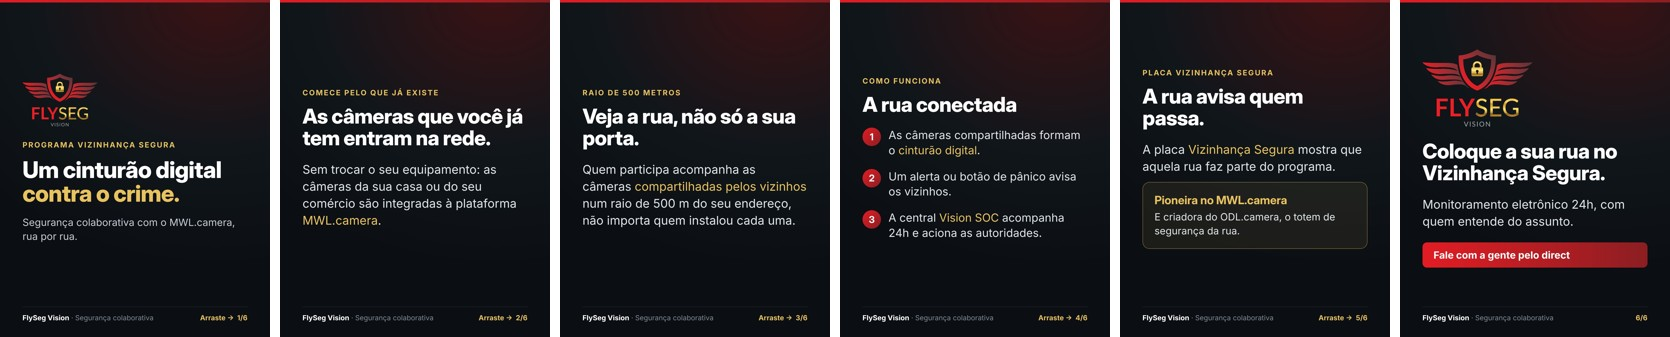
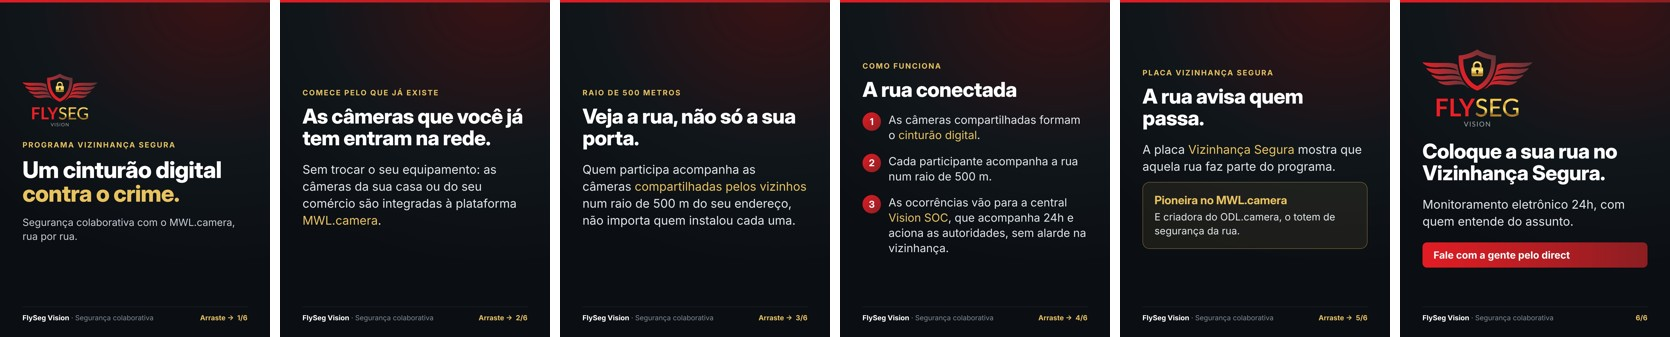
FlySeg: ODL refeito (conjunto completo), pânico fora dos posts
Claude-Session: https://claude.ai/code/session_013wqKux7qHbRAJMaH62mhbc

Changed region(s): [[0.4982, 0.178, 0.6539, 0.7715]]

diff --git a/social-flyseg/2026-11-odl-camera/slide5.html b/social-flyseg/2026-11-odl-camera/slide5.html
@@ -1,0 +1,26 @@
+<!doctype html><html><head><meta charset="utf-8"><style>
+*{margin:0;padding:0;box-sizing:border-box}
+body{width:1080px;height:1350px;background:radial-gradient(120% 80% at 80% 0%,#3a1214 0%,#11161b 55%,#0b0f13 100%);color:#fff;font-family:'Inter';position:relative;overflow:hidden}
+.bar{position:absolute;top:0;left:0;right:0;height:10px;background:linear-gradient(90deg,#e31c24,#8b1e22)}
+.wrap{position:absolute;inset:90px 90px 170px 90px;display:flex;flex-direction:column;justify-content:center}
+.eyebrow{font-weight:700;font-size:30px;letter-spacing:4px;text-transform:uppercase;color:#e9c260;margin-bottom:34px}
+h1{font-family:'Inter Display';font-weight:800;font-size:92px;line-height:1.04;letter-spacing:-1.5px}
+h2{font-family:'Inter Display';font-weight:800;font-size:82px;line-height:1.06;letter-spacing:-1.2px;margin-bottom:48px}
+.sub{font-size:40px;line-height:1.4;color:#c5ccd3;margin-top:40px}
+p.t{font-size:48px;line-height:1.42;color:#dfe4e9}
+.gold{color:#e9c260}.red{color:#ff3b42}
+ol{list-style:none;display:flex;flex-direction:column;gap:44px}
+ol li{display:flex;gap:30px;align-items:flex-start;font-size:45px;line-height:1.35;color:#dfe4e9}
+ol li b{flex:0 0 74px;height:74px;border-radius:50%;background:linear-gradient(135deg,#e31c24,#8b1e22);display:flex;align-items:center;justify-content:center;font-size:38px;color:#fff;font-family:'Inter Display'}
+.card{border:2px solid rgba(233,194,96,.45);background:rgba(233,194,96,.08);border-radius:28px;padding:42px 46px;margin-top:28px}
+.card h3{font-family:'Inter Display';font-size:46px;color:#e9c260;margin-bottom:12px}
+.card p{font-size:40px;line-height:1.4;color:#dfe4e9}
+.logo{width:300px;margin-bottom:56px}
+.logo.big{width:440px}
+.foot{position:absolute;left:90px;right:90px;bottom:60px;display:flex;justify-content:space-between;align-items:center;font-size:28px;color:#7f8a94;border-top:2px solid rgba(255,255,255,.08);padding-top:26px}
+.foot b{color:#fff}
+.foot .sw{color:#e9c260;font-weight:700}
+.cta{display:inline-block;margin-top:50px;padding:26px 44px;border-radius:18px;background:linear-gradient(90deg,#e31c24,#8b1e22);font-size:40px;font-weight:700}
+.center{justify-content:center}
+</style></head><body><div class="bar"></div>
+<div class="wrap"><div class="center" style="display:flex;flex-direction:column;height:100%"><img class="logo big" src="file:///home/claude/flyseg-posts/logo.png"><h2>Sem custo de equipamento.</h2><p class="t">Assinatura mensal com o conjunto completo instalado.</p><span class="cta">Fale com a gente pelo direct</span></div></div><div class="foot"><span><b>FlySeg Vision</b> · Segurança colaborativa</span><span class="sw">5/5</span></div></body></html>

diff --git a/social-flyseg/2026-11-seguranca-colaborativa/story.html b/social-flyseg/2026-11-seguranca-colaborativa/story.html
@@ -8,4 +8,4 @@ ol{list-style:none;display:flex;flex-direction:column}
 li{display:flex;align-items:flex-start;color:#dfe4e9;line-height:1.32}
 li b{border-radius:50%;background:linear-gradient(135deg,#e31c24,#8b1e22);display:flex;align-items:center;justify-content:center;color:#fff;font-family:'Inter Display';flex-shrink:0}
 .ft{position:absolute;display:flex;justify-content:space-between;align-items:center;color:#7f8a94;border-top:2px solid rgba(255,255,255,.08)}.ft b{color:#fff}.ft .g{color:#e9c260;font-weight:700}body{width:1080px;height:1920px}.w{left:90px;right:90px;top:250px;bottom:370px;justify-content:center}.logo{width:300px}.eb{font-size:32px}h1{font-size:96px}.s{font-size:44px}
-ol{gap:34px}li{gap:28px;font-size:44px}li b{width:76px;height:76px;font-size:38px}.cta{margin-top:56px;align-self:flex-start;padding:28px 46px;border-radius:20px;background:linear-gradient(90deg,#e31c24,#8b1e22);font-size:42px;font-weight:700}</style></head><body><div class="bar"></div><div class="w"><img class="logo" src="file:///home/claude/flyseg-posts/logo.png"><div class="eb">Programa Vizinhança Segura</div><h1>Um cinturão digital <span>contra o crime.</span></h1><p class="s">Segurança colaborativa com o MWL.camera.</p><ol><li><b>1</b><span>As câmeras que você já tem entram na rede</span></li><li><b>2</b><span>Veja as câmeras compartilhadas pelos vizinhos num raio de 500 m</span></li><li><b>3</b><span>Central Vision SOC 24h acionando as autoridades</span></li></ol><div class="cta">Fale com a gente pelo direct</div></div></body></html>
+ol{gap:34px}li{gap:28px;font-size:44px}li b{width:76px;height:76px;font-size:38px}.cta{margin-top:56px;align-self:flex-start;padding:28px 46px;border-radius:20px;background:linear-gradient(90deg,#e31c24,#8b1e22);font-size:42px;font-weight:700}</style></head><body><div class="bar"></div><div class="w"><img class="logo" src="file:///home/claude/flyseg-posts/logo.png"><div class="eb">Programa Vizinhança Segura</div><h1>Um cinturão digital <span>contra o crime.</span></h1><p class="s">Segurança colaborativa com o MWL.camera.</p><ol><li><b>1</b><span>As câmeras que você já tem entram na rede</span></li><li><b>2</b><span>Veja as câmeras compartilhadas pelos vizinhos num raio de 500 m</span></li><li><b>3</b><span>Ocorrências direto para a central Vision SOC 24h</span></li></ol><div class="cta">Fale com a gente pelo direct</div></div></body></html>

diff --git a/social-flyseg/2026-11-odl-camera/story.html b/social-flyseg/2026-11-odl-camera/story.html
@@ -8,4 +8,4 @@ ol{list-style:none;display:flex;flex-direction:column}
 li{display:flex;align-items:flex-start;color:#dfe4e9;line-height:1.32}
 li b{border-radius:50%;background:linear-gradient(135deg,#e31c24,#8b1e22);display:flex;align-items:center;justify-content:center;color:#fff;font-family:'Inter Display';flex-shrink:0}
 .ft{position:absolute;display:flex;justify-content:space-between;align-items:center;color:#7f8a94;border-top:2px solid rgba(255,255,255,.08)}.ft b{color:#fff}.ft .g{color:#e9c260;font-weight:700}body{width:1080px;height:1920px}.w{left:90px;right:90px;top:250px;bottom:370px;justify-content:center}.logo{width:300px}.eb{font-size:32px}h1{font-size:96px}.s{font-size:44px}
-ol{gap:34px}li{gap:28px;font-size:44px}li b{width:76px;height:76px;font-size:38px}.cta{margin-top:56px;align-self:flex-start;padding:28px 46px;border-radius:20px;background:linear-gradient(90deg,#e31c24,#8b1e22);font-size:42px;font-weight:700}</style></head><body><div class="bar"></div><div class="w"><img class="logo" src="file:///home/claude/flyseg-posts/logo.png"><div class="eb">ODL.camera</div><h1>ODL, de <span>Olho de Lince.</span></h1><p class="s">O totem de segurança da sua rua, criado pela FlySeg.</p><ol><li><b>1</b><span>Totem para a rua e versão fachada</span></li><li><b>2</b><span>Ligado ao MWL.camera, com botão de pânico</span></li><li><b>3</b><span>Aviso se câmera, gravador ou internet caírem</span></li></ol><div class="cta">Fale com a gente pelo direct</div></div></body></html>
+ol{gap:34px}li{gap:28px;font-size:44px}li b{width:76px;height:76px;font-size:38px}.cta{margin-top:56px;align-self:flex-start;padding:28px 46px;border-radius:20px;background:linear-gradient(90deg,#e31c24,#8b1e22);font-size:42px;font-weight:700}</style></head><body><div class="bar"></div><div class="w"><img class="logo" src="file:///home/claude/flyseg-posts/logo.png"><div class="eb">ODL.camera</div><h1>A segurança da rua <span>num conjunto completo.</span></h1><p class="s">Totem com visão 360° e versão fachada, criados pela FlySeg.</p><ol><li><b>1</b><span>Sirene e giroflex integrados</span></li><li><b>2</b><span>Câmeras Full HD coloridas à noite e 7 dias de gravação</span></li><li><b>3</b><span>Integrado ao MWL.camera e à central Vision SOC 24h</span></li></ol><div class="cta">Fale com a gente pelo direct</div></div></body></html>

diff --git a/social-flyseg/2026-11-seguranca-colaborativa/resumo.html b/social-flyseg/2026-11-seguranca-colaborativa/resumo.html
@@ -8,4 +8,4 @@ ol{list-style:none;display:flex;flex-direction:column}
 li{display:flex;align-items:flex-start;color:#dfe4e9;line-height:1.32}
 li b{border-radius:50%;background:linear-gradient(135deg,#e31c24,#8b1e22);display:flex;align-items:center;justify-content:center;color:#fff;font-family:'Inter Display';flex-shrink:0}
 .ft{position:absolute;display:flex;justify-content:space-between;align-items:center;color:#7f8a94;border-top:2px solid rgba(255,255,255,.08)}.ft b{color:#fff}.ft .g{color:#e9c260;font-weight:700}body{width:1080px;height:1350px}.w{left:90px;right:90px;top:90px;bottom:170px;justify-content:center}.eb{font-size:28px}h1{font-size:78px}.s{font-size:38px}
-ol{gap:28px}li{gap:26px;font-size:38px}li b{width:64px;height:64px;font-size:32px}.ft{left:90px;right:90px;bottom:60px;padding-top:24px;font-size:28px}</style></head><body><div class="bar"></div><div class="w"><img class="logo" src="file:///home/claude/flyseg-posts/logo.png"><div class="eb">Programa Vizinhança Segura</div><h1>Um cinturão digital <span>contra o crime.</span></h1><p class="s">Segurança colaborativa com o MWL.camera.</p><ol><li><b>1</b><span>As câmeras que você já tem entram na rede</span></li><li><b>2</b><span>Veja as câmeras compartilhadas pelos vizinhos num raio de 500 m</span></li><li><b>3</b><span>Central Vision SOC 24h acionando as autoridades</span></li></ol></div><div class="ft"><span><b>FlySeg Vision</b> · Segurança colaborativa</span><span class="g">flyseg.vision</span></div></body></html>
+ol{gap:28px}li{gap:26px;font-size:38px}li b{width:64px;height:64px;font-size:32px}.ft{left:90px;right:90px;bottom:60px;padding-top:24px;font-size:28px}</style></head><body><div class="bar"></div><div class="w"><img class="logo" src="file:///home/claude/flyseg-posts/logo.png"><div class="eb">Programa Vizinhança Segura</div><h1>Um cinturão digital <span>contra o crime.</span></h1><p class="s">Segurança colaborativa com o MWL.camera.</p><ol><li><b>1</b><span>As câmeras que você já tem entram na rede</span></li><li><b>2</b><span>Veja as câmeras compartilhadas pelos vizinhos num raio de 500 m</span></li><li><b>3</b><span>Ocorrências direto para a central Vision SOC 24h</span></li></ol></div><div class="ft"><span><b>FlySeg Vision</b> · Segurança colaborativa</span><span class="g">flyseg.vision</span></div></body></html>

diff --git a/social-flyseg/2026-11-odl-camera/resumo.html b/social-flyseg/2026-11-odl-camera/resumo.html
@@ -8,4 +8,4 @@ ol{list-style:none;display:flex;flex-direction:column}
 li{display:flex;align-items:flex-start;color:#dfe4e9;line-height:1.32}
 li b{border-radius:50%;background:linear-gradient(135deg,#e31c24,#8b1e22);display:flex;align-items:center;justify-content:center;color:#fff;font-family:'Inter Display';flex-shrink:0}
 .ft{position:absolute;display:flex;justify-content:space-between;align-items:center;color:#7f8a94;border-top:2px solid rgba(255,255,255,.08)}.ft b{color:#fff}.ft .g{color:#e9c260;font-weight:700}body{width:1080px;height:1350px}.w{left:90px;right:90px;top:90px;bottom:170px;justify-content:center}.eb{font-size:28px}h1{font-size:78px}.s{font-size:38px}
-ol{gap:28px}li{gap:26px;font-size:38px}li b{width:64px;height:64px;font-size:32px}.ft{left:90px;right:90px;bottom:60px;padding-top:24px;font-size:28px}</style></head><body><div class="bar"></div><div class="w"><img class="logo" src="file:///home/claude/flyseg-posts/logo.png"><div class="eb">ODL.camera</div><h1>ODL, de <span>Olho de Lince.</span></h1><p class="s">O totem de segurança da sua rua, criado pela FlySeg.</p><ol><li><b>1</b><span>Totem para a rua e versão fachada</span></li><li><b>2</b><span>Ligado ao MWL.camera, com botão de pânico</span></li><li><b>3</b><span>Aviso se câmera, gravador ou internet caírem</span></li></ol></div><div class="ft"><span><b>FlySeg Vision</b> · Segurança colaborativa</span><span class="g">flyseg.vision</span></div></body></html>
+ol{gap:28px}li{gap:26px;font-size:38px}li b{width:64px;height:64px;font-size:32px}.ft{left:90px;right:90px;bottom:60px;padding-top:24px;font-size:28px}</style></head><body><div class="bar"></div><div class="w"><img class="logo" src="file:///home/claude/flyseg-posts/logo.png"><div class="eb">ODL.camera</div><h1>A segurança da rua <span>num conjunto completo.</span></h1><p class="s">Totem com visão 360° e versão fachada, criados pela FlySeg.</p><ol><li><b>1</b><span>Sirene e giroflex integrados</span></li><li><b>2</b><span>Câmeras Full HD coloridas à noite e 7 dias de gravação</span></li><li><b>3</b><span>Integrado ao MWL.camera e à central Vision SOC 24h</span></li></ol></div><div class="ft"><span><b>FlySeg Vision</b> · Segurança colaborativa</span><span class="g">flyseg.vision</span></div></body></html>

diff --git a/social-flyseg/2026-11-odl-camera/slide3.html b/social-flyseg/2026-11-odl-camera/slide3.html
@@ -23,4 +23,4 @@ ol li b{flex:0 0 74px;height:74px;border-radius:50%;background:linear-gradient(1
 .cta{display:inline-block;margin-top:50px;padding:26px 44px;border-radius:18px;background:linear-gradient(90deg,#e31c24,#8b1e22);font-size:40px;font-weight:700}
 .center{justify-content:center}
 </style></head><body><div class="bar"></div>
-<div class="wrap"><div class="eyebrow">Na prática</div><h2>Tudo no MWL.camera</h2><ol><li><b>1</b><span>Imagens da rua na plataforma de segurança colaborativa.</span></li><li><b>2</b><span>Botão de pânico e alertas para os vizinhos.</span></li><li><b>3</b><span>Aviso se a câmera, o gravador ou a internet ficarem fora do ar.</span></li><li><b>4</b><span>Central Vision SOC 24h acionando as autoridades.</span></li></ol></div><div class="foot"><span><b>FlySeg Vision</b> · Segurança colaborativa</span><span class="sw">Arraste →&nbsp;&nbsp;3/4</span></div></body></html>
+<div class="wrap"><div class="eyebrow">Sempre no conjunto</div><h2>Feito para inibir.</h2><ol><li><b>1</b><span><span class="gold">Sirene e giroflex</span> integrados.</span></li><li><b>2</b><span>Câmeras <span class="gold">Full HD</span> que filmam colorido à noite.</span></li><li><b>3</b><span><span class="gold">7 dias</span> de gravação.</span></li><li><b>4</b><span>Iluminação âmbar à noite. Nobreak opcional.</span></li></ol></div><div class="foot"><span><b>FlySeg Vision</b> · Segurança colaborativa</span><span class="sw">Arraste →&nbsp;&nbsp;3/5</span></div></body></html>

diff --git a/social-flyseg/2026-11-seguranca-colaborativa/slide4.html b/social-flyseg/2026-11-seguranca-colaborativa/slide4.html
@@ -23,4 +23,4 @@ ol li b{flex:0 0 74px;height:74px;border-radius:50%;background:linear-gradient(1
 .cta{display:inline-block;margin-top:50px;padding:26px 44px;border-radius:18px;background:linear-gradient(90deg,#e31c24,#8b1e22);font-size:40px;font-weight:700}
 .center{justify-content:center}
 </style></head><body><div class="bar"></div>
-<div class="wrap"><div class="eyebrow">Como funciona</div><h2>A rua conectada</h2><ol><li><b>1</b><span>As câmeras compartilhadas formam o <span class="gold">cinturão digital</span>.</span></li><li><b>2</b><span>Um alerta ou botão de pânico avisa os vizinhos.</span></li><li><b>3</b><span>A central <span class="gold">Vision SOC</span> acompanha 24h e aciona as autoridades.</span></li></ol></div><div class="foot"><span><b>FlySeg Vision</b> · Segurança colaborativa</span><span class="sw">Arraste →&nbsp;&nbsp;4/6</span></div></body></html>
+<div class="wrap"><div class="eyebrow">Como funciona</div><h2>A rua conectada</h2><ol><li><b>1</b><span>As câmeras compartilhadas formam o <span class="gold">cinturão digital</span>.</span></li><li><b>2</b><span>Cada participante acompanha a rua num raio de 500 m.</span></li><li><b>3</b><span>As ocorrências vão para a central <span class="gold">Vision SOC</span>, que acompanha 24h e aciona as autoridades, sem alarde na vizinhança.</span></li></ol></div><div class="foot"><span><b>FlySeg Vision</b> · Segurança colaborativa</span><span class="sw">Arraste →&nbsp;&nbsp;4/6</span></div></body></html>

diff --git a/social-flyseg/2026-11-vision-soc-integradores/slide3.html b/social-flyseg/2026-11-vision-soc-integradores/slide3.html
@@ -23,4 +23,4 @@ ol li b{flex:0 0 74px;height:74px;border-radius:50%;background:linear-gradient(1
 .cta{display:inline-block;margin-top:50px;padding:26px 44px;border-radius:18px;background:linear-gradient(90deg,#e31c24,#8b1e22);font-size:40px;font-weight:700}
 .center{justify-content:center}
 </style></head><body><div class="bar"></div>
-<div class="wrap"><div class="eyebrow">O que a central faz</div><h2>Monitoramento eletrônico 24h</h2><ol><li><b>1</b><span>Acompanha as ocorrências do <span class="gold">MWL.camera</span>: alerta, emergência e pânico.</span></li><li><b>2</b><span>Aciona as autoridades quando é preciso.</span></li><li><b>3</b><span>Avisa quando câmera, gravador ou link ficam fora do ar.</span></li></ol></div><div class="foot"><span><b>FlySeg Vision</b> · Segurança colaborativa</span><span class="sw">Arraste →&nbsp;&nbsp;3/4</span></div></body></html>
+<div class="wrap"><div class="eyebrow">O que a central faz</div><h2>Monitoramento eletrônico 24h</h2><ol><li><b>1</b><span>Acompanha as ocorrências do <span class="gold">MWL.camera</span>: alertas e emergências.</span></li><li><b>2</b><span>Aciona as autoridades quando é preciso.</span></li><li><b>3</b><span>Avisa quando câmera, gravador ou link ficam fora do ar.</span></li></ol></div><div class="foot"><span><b>FlySeg Vision</b> · Segurança colaborativa</span><span class="sw">Arraste →&nbsp;&nbsp;3/4</span></div></body></html>

diff --git a/social-flyseg/2026-11-odl-camera/slide4.html b/social-flyseg/2026-11-odl-camera/slide4.html
@@ -23,4 +23,4 @@ ol li b{flex:0 0 74px;height:74px;border-radius:50%;background:linear-gradient(1
 .cta{display:inline-block;margin-top:50px;padding:26px 44px;border-radius:18px;background:linear-gradient(90deg,#e31c24,#8b1e22);font-size:40px;font-weight:700}
 .center{justify-content:center}
 </style></head><body><div class="bar"></div>
-<div class="wrap"><div class="center" style="display:flex;flex-direction:column;height:100%"><img class="logo big" src="file:///home/claude/flyseg-posts/logo.png"><h2>Quer um ODL.camera na sua rua?</h2><p class="t">Saiba mais em <span class="gold">flyseg.vision</span></p><span class="cta">Fale com a gente pelo direct</span></div></div><div class="foot"><span><b>FlySeg Vision</b> · Segurança colaborativa</span><span class="sw">4/4</span></div></body></html>
+<div class="wrap"><div class="eyebrow">Na prática</div><h2>Resposta na hora.</h2><ol><li><b>1</b><span>O botão de emergência aciona sirene e giroflex no local.</span></li><li><b>2</b><span>A ocorrência entra no <span class="gold">MWL.camera</span> com a gravação anexada.</span></li><li><b>3</b><span>A central <span class="gold">Vision SOC</span> analisa 24h e aciona as autoridades.</span></li></ol></div><div class="foot"><span><b>FlySeg Vision</b> · Segurança colaborativa</span><span class="sw">Arraste →&nbsp;&nbsp;4/5</span></div></body></html>

diff --git a/social-flyseg/2026-11-odl-camera/slide2.html b/social-flyseg/2026-11-odl-camera/slide2.html
@@ -23,4 +23,4 @@ ol li b{flex:0 0 74px;height:74px;border-radius:50%;background:linear-gradient(1
 .cta{display:inline-block;margin-top:50px;padding:26px 44px;border-radius:18px;background:linear-gradient(90deg,#e31c24,#8b1e22);font-size:40px;font-weight:700}
 .center{justify-content:center}
 </style></head><body><div class="bar"></div>
-<div class="wrap"><div class="eyebrow">Duas versões</div><h2>Para a rua e para a fachada.</h2><div class="card"><h3>Totem / poste</h3><p>Instalado na rua, cobre a via e o movimento ao redor.</p></div><div class="card"><h3>Fachada (box)</h3><p>Para casas e comércios que querem fazer parte da rede.</p></div></div><div class="foot"><span><b>FlySeg Vision</b> · Segurança colaborativa</span><span class="sw">Arraste →&nbsp;&nbsp;2/4</span></div></body></html>
+<div class="wrap"><div class="eyebrow">Duas versões</div><h2>Para a calçada e para a fachada.</h2><div class="card"><h3>Totem: visão 360°</h3><p>3 câmeras simultâneas e mais uma dedicada à calçada e aos portões.</p></div><div class="card"><h3>Fachada (box)</h3><p>2 câmeras com áudio bidirecional, no formato do seu imóvel.</p></div></div><div class="foot"><span><b>FlySeg Vision</b> · Segurança colaborativa</span><span class="sw">Arraste →&nbsp;&nbsp;2/5</span></div></body></html>

diff --git a/social-flyseg/2026-11-odl-camera/slide1.html b/social-flyseg/2026-11-odl-camera/slide1.html
@@ -23,4 +23,4 @@ ol li b{flex:0 0 74px;height:74px;border-radius:50%;background:linear-gradient(1
 .cta{display:inline-block;margin-top:50px;padding:26px 44px;border-radius:18px;background:linear-gradient(90deg,#e31c24,#8b1e22);font-size:40px;font-weight:700}
 .center{justify-content:center}
 </style></head><body><div class="bar"></div>
-<div class="wrap"><img class="logo" src="file:///home/claude/flyseg-posts/logo.png"><div class="eyebrow">ODL.camera</div><h1>O totem de segurança <span class="gold">da sua rua.</span></h1><p class="sub">ODL, de <span class="gold">Olho de Lince</span>. Criado pela FlySeg e ligado ao MWL.camera.</p></div><div class="foot"><span><b>FlySeg Vision</b> · Segurança colaborativa</span><span class="sw">Arraste →&nbsp;&nbsp;1/4</span></div></body></html>
+<div class="wrap"><img class="logo" src="file:///home/claude/flyseg-posts/logo.png"><div class="eyebrow">ODL.camera</div><h1>A segurança da rua <span class="gold">num conjunto completo.</span></h1><p class="sub">Totem e versão fachada criados pela FlySeg, integrados ao MWL.camera.</p></div><div class="foot"><span><b>FlySeg Vision</b> · Segurança colaborativa</span><span class="sw">Arraste →&nbsp;&nbsp;1/5</span></div></body></html>

diff --git a/social-flyseg/gerar.py b/social-flyseg/gerar.py
@@ -39,20 +39,21 @@ POSTS = {
   f'<img class="logo" src="{LOGO}"><div class="eyebrow">Programa Vizinhança Segura</div><h1>Um cinturão digital <span class="gold">contra o crime.</span></h1><p class="sub">Segurança colaborativa com o MWL.camera, rua por rua.</p>',
   '<div class="eyebrow">Comece pelo que já existe</div><h2>As câmeras que você já tem entram na rede.</h2><p class="t">Sem trocar o seu equipamento: as câmeras da sua casa ou do seu comércio são integradas à plataforma <span class="gold">MWL.camera</span>.</p>',
   '<div class="eyebrow">Raio de 500 metros</div><h2>Veja a rua, não só a sua porta.</h2><p class="t">Quem participa acompanha as câmeras <span class="gold">compartilhadas pelos vizinhos</span> num raio de 500 m do seu endereço, não importa quem instalou cada uma.</p>',
-  '<div class="eyebrow">Como funciona</div><h2>A rua conectada</h2><ol><li><b>1</b><span>As câmeras compartilhadas formam o <span class="gold">cinturão digital</span>.</span></li><li><b>2</b><span>Um alerta ou botão de pânico avisa os vizinhos.</span></li><li><b>3</b><span>A central <span class="gold">Vision SOC</span> acompanha 24h e aciona as autoridades.</span></li></ol>',
+  '<div class="eyebrow">Como funciona</div><h2>A rua conectada</h2><ol><li><b>1</b><span>As câmeras compartilhadas formam o <span class="gold">cinturão digital</span>.</span></li><li><b>2</b><span>Cada participante acompanha a rua num raio de 500 m.</span></li><li><b>3</b><span>As ocorrências vão para a central <span class="gold">Vision SOC</span>, que acompanha 24h e aciona as autoridades, sem alarde na vizinhança.</span></li></ol>',
   '<div class="eyebrow">Placa Vizinhança Segura</div><h2>A rua avisa quem passa.</h2><p class="t">A placa <span class="gold">Vizinhança Segura</span> mostra que aquela rua faz parte do programa.</p><div class="card"><h3>Pioneira no MWL.camera</h3><p>E criadora do ODL.camera, o totem de segurança da rua.</p></div>',
   f'<div class="center" style="display:flex;flex-direction:column;height:100%"><img class="logo big" src="{LOGO}"><h2>Coloque a sua rua no Vizinhança Segura.</h2><p class="t">Monitoramento eletrônico 24h, com quem entende do assunto.</p><span class="cta">Fale com a gente pelo direct</span></div>',
  ],
  "odl-camera": [
-  f'<img class="logo" src="{LOGO}"><div class="eyebrow">ODL.camera</div><h1>O totem de segurança <span class="gold">da sua rua.</span></h1><p class="sub">ODL, de <span class="gold">Olho de Lince</span>. Criado pela FlySeg e ligado ao MWL.camera.</p>',
-  '<div class="eyebrow">Duas versões</div><h2>Para a rua e para a fachada.</h2><div class="card"><h3>Totem / poste</h3><p>Instalado na rua, cobre a via e o movimento ao redor.</p></div><div class="card"><h3>Fachada (box)</h3><p>Para casas e comércios que querem fazer parte da rede.</p></div>',
-  '<div class="eyebrow">Na prática</div><h2>Tudo no MWL.camera</h2><ol><li><b>1</b><span>Imagens da rua na plataforma de segurança colaborativa.</span></li><li><b>2</b><span>Botão de pânico e alertas para os vizinhos.</span></li><li><b>3</b><span>Aviso se a câmera, o gravador ou a internet ficarem fora do ar.</span></li><li><b>4</b><span>Central Vision SOC 24h acionando as autoridades.</span></li></ol>',
-  f'<div class="center" style="display:flex;flex-direction:column;height:100%"><img class="logo big" src="{LOGO}"><h2>Quer um ODL.camera na sua rua?</h2><p class="t">Saiba mais em <span class="gold">flyseg.vision</span></p><span class="cta">Fale com a gente pelo direct</span></div>',
+  f'<img class="logo" src="{LOGO}"><div class="eyebrow">ODL.camera</div><h1>A segurança da rua <span class="gold">num conjunto completo.</span></h1><p class="sub">Totem e versão fachada criados pela FlySeg, integrados ao MWL.camera.</p>',
+  '<div class="eyebrow">Duas versões</div><h2>Para a calçada e para a fachada.</h2><div class="card"><h3>Totem: visão 360°</h3><p>3 câmeras simultâneas e mais uma dedicada à calçada e aos portões.</p></div><div class="card"><h3>Fachada (box)</h3><p>2 câmeras com áudio bidirecional, no formato do seu imóvel.</p></div>',
+  '<div class="eyebrow">Sempre no conjunto</div><h2>Feito para inibir.</h2><ol><li><b>1</b><span><span class="gold">Sirene e giroflex</span> integrados.</span></li><li><b>2</b><span>Câmeras <span class="gold">Full HD</span> que filmam colorido à noite.</span></li><li><b>3</b><span><span class="gold">7 dias</span> de gravação.</span></li><li><b>4</b><span>Iluminação âmbar à noite. Nobreak opcional.</span></li></ol>',
+  '<div class="eyebrow">Na prática</div><h2>Resposta na hora.</h2><ol><li><b>1</b><span>O botão de emergência aciona sirene e giroflex no local.</span></li><li><b>2</b><span>A ocorrência entra no <span class="gold">MWL.camera</span> com a gravação anexada.</span></li><li><b>3</b><span>A central <span class="gold">Vision SOC</span> analisa 24h e aciona as autoridades.</span></li></ol>',
+  f'<div class="center" style="display:flex;flex-direction:column;height:100%"><img class="logo big" src="{LOGO}"><h2>Sem custo de equipamento.</h2><p class="t">Assinatura mensal com o conjunto completo instalado.</p><span class="cta">Fale com a gente pelo direct</span></div>',
  ],
  "vision-soc-integradores": [
   f'<img class="logo" src="{LOGO}"><div class="eyebrow">Para integradores</div><h1>Venda monitoramento 24h <span class="gold">com a sua marca.</span></h1><p class="sub">Vision SOC white label, sem montar central própria.</p>',
   '<div class="eyebrow">O modelo</div><h2>Você vende. A central opera.</h2><p class="t">Você atende o seu cliente com a sua marca. A central <span class="gold">Vision SOC</span> da FlySeg acompanha as ocorrências 24h, todos os dias.</p>',
-  '<div class="eyebrow">O que a central faz</div><h2>Monitoramento eletrônico 24h</h2><ol><li><b>1</b><span>Acompanha as ocorrências do <span class="gold">MWL.camera</span>: alerta, emergência e pânico.</span></li><li><b>2</b><span>Aciona as autoridades quando é preciso.</span></li><li><b>3</b><span>Avisa quando câmera, gravador ou link ficam fora do ar.</span></li></ol>',
+  '<div class="eyebrow">O que a central faz</div><h2>Monitoramento eletrônico 24h</h2><ol><li><b>1</b><span>Acompanha as ocorrências do <span class="gold">MWL.camera</span>: alertas e emergências.</span></li><li><b>2</b><span>Aciona as autoridades quando é preciso.</span></li><li><b>3</b><span>Avisa quando câmera, gravador ou link ficam fora do ar.</span></li></ol>',
   f'<div class="center" style="display:flex;flex-direction:column;height:100%"><img class="logo big" src="{LOGO}"><h2>Planos e preços no site.</h2><p class="t"><span class="gold">flyseg.vision</span></p><span class="cta">Fale com a gente pelo direct</span></div>',
  ],
 }
